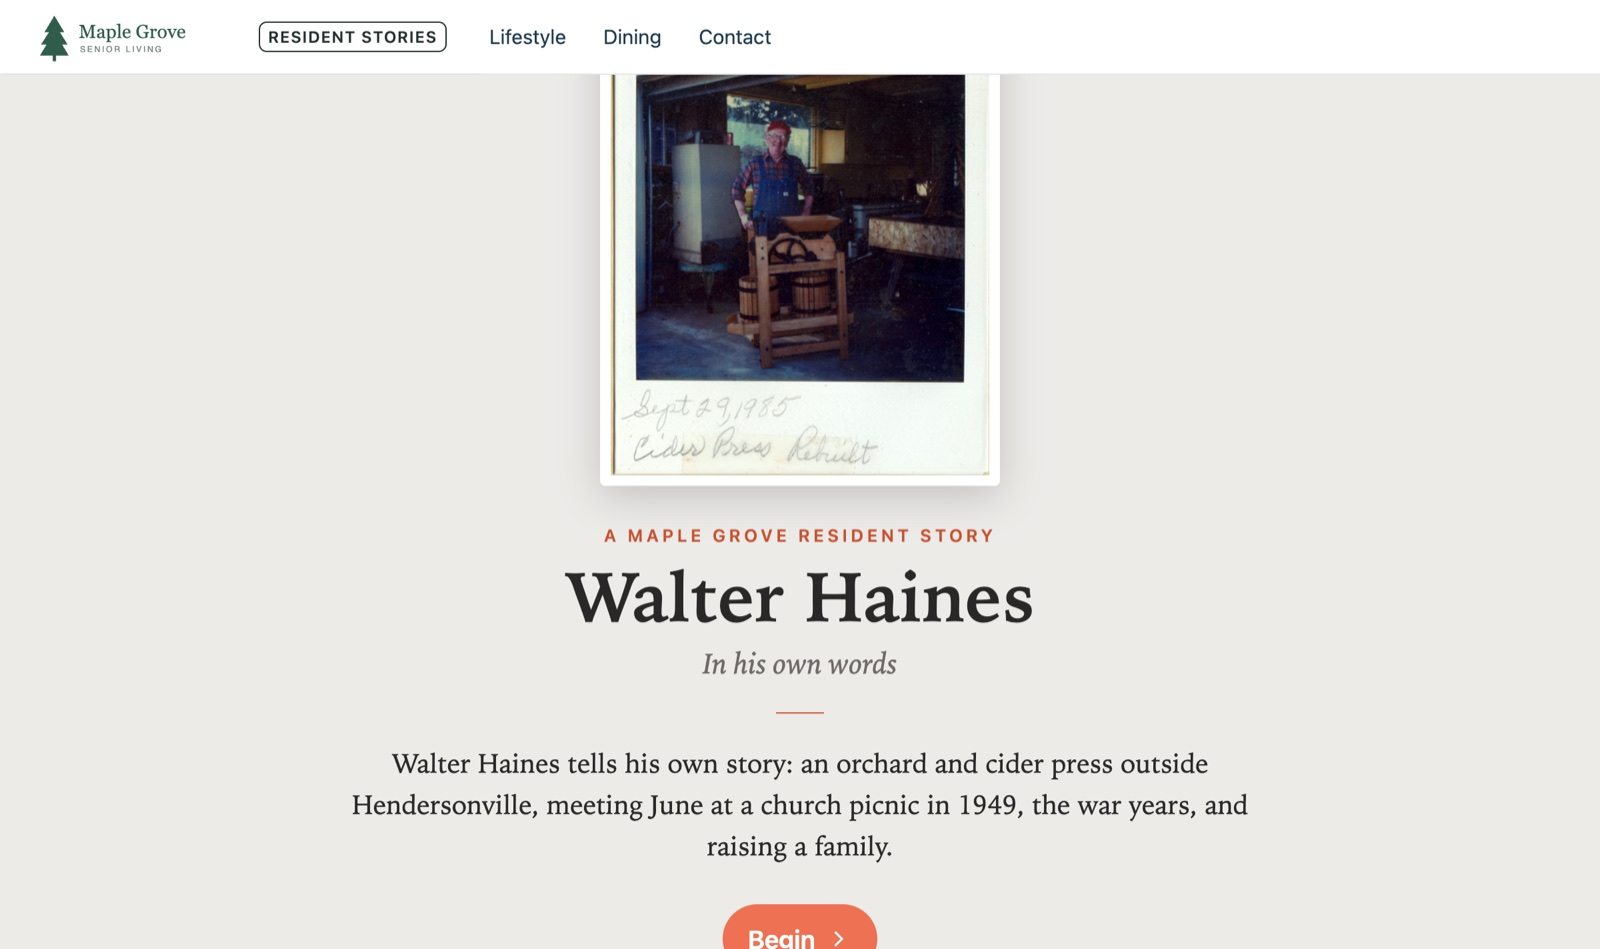
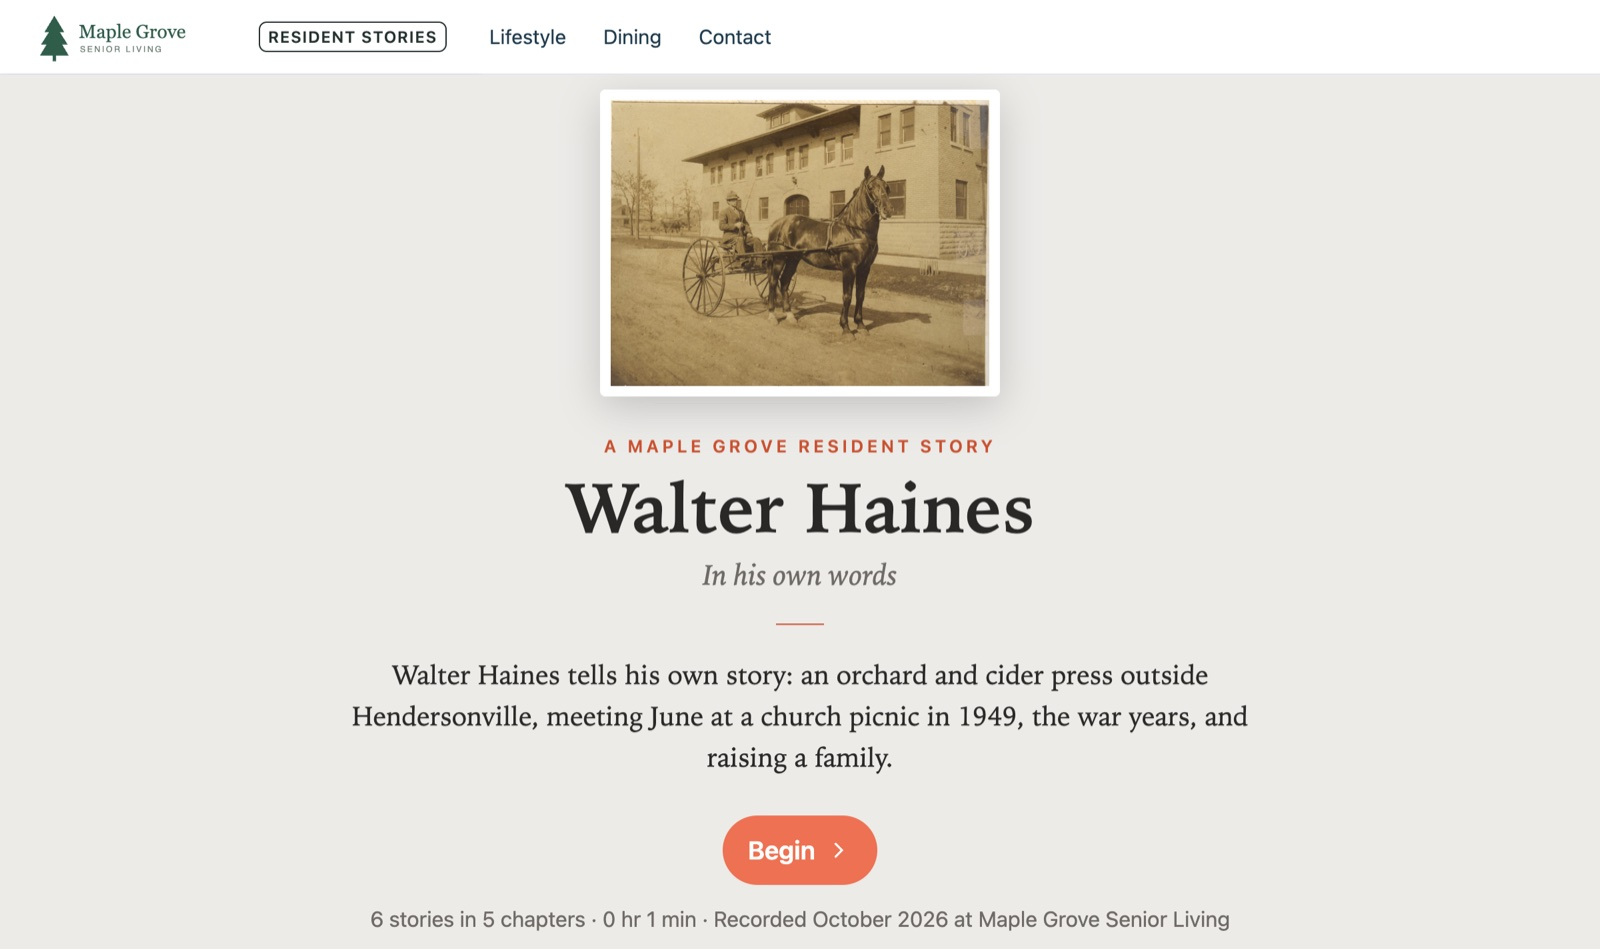
#233: For Communities: grandfather's horse-and-buggy photo opens the sponsor-page shot; bold takeaways in deep coral

Changed region(s): [[0.2188, 0.0611, 0.7812, 0.764], [0.2188, 0.7945, 0.7812, 1.0]]

diff --git a/public/facilities/index.html b/public/facilities/index.html
@@ -90,7 +90,10 @@
   .why-row.reveal .why-pic { transform: translateX(-40px); transition: transform 1s cubic-bezier(.2,.8,.2,1); }
   .why-row.reveal:nth-child(even) .why-pic { transform: translateX(40px); }
   .why-row.reveal.in .why-pic { transform: none; }
-  strong { font-weight: 650; font-size: 1.07em; color: var(--text-strong, inherit); }
+  /* Bold takeaways: a little larger, in a deep coral so they stand apart from the text around them */
+  :root { --strong: #a8432a; } @media (prefers-color-scheme: dark) { :root { --strong: #f6a184; } }
+  strong { font-weight: 650; font-size: 1.07em; color: var(--strong); }
+  .band.ink strong { color: #f6a184; }
   h1, h2, h3, p, small { text-wrap: pretty; } h1, h2 { text-wrap: balance; }
   @media (prefers-reduced-motion: reduce) { .pin, .glow, .legend button { transition: none; } .pin.on::after { animation: none; } [data-drift] { transform: none !important; } }
 </style>
@@ -109,7 +112,7 @@
     <a class="button" href="mailto:sales@firsthandstories.app?subject=Firsthand%20Stories%20for%20our%20community">Request a Conversation</a>
     <a class="button secondary" href="tel:+17044128761">Call or Text (704) 412-8761</a>
   </div>
-  <figure class="hero-shot rise"><img data-drift="hero" src="/images/app/sponsor-bar.jpg" width="1600" height="950" alt="A resident's story page with Maple Grove Senior Living's own logo and links in the bar across the top, and an old photo of him at his cider press"></figure>
+  <figure class="hero-shot rise"><img data-drift="hero" src="/images/app/sponsor-bar.jpg" width="1600" height="950" alt="A resident's story page with Maple Grove Senior Living's own logo and links in the bar across the top, and an old photo of his grandfather with a horse and buggy"></figure>
 
   <section class="band paper" aria-labelledby="why">
     <p class="eyebrow">Why communities do it</p>
